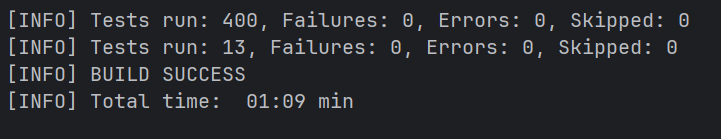
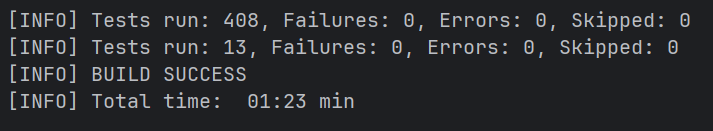
test: complete volunteer CRUD integration tests and update report

diff --git a/src/test/java/com/example/foodrescue/volunteer/VolunteerCrudIntegrationTest.java b/src/test/java/com/example/foodrescue/volunteer/VolunteerCrudIntegrationTest.java
@@ -14,8 +14,11 @@ import java.util.Map;
 import java.util.UUID;
 
 import static org.assertj.core.api.Assertions.assertThat;
+import static org.hamcrest.Matchers.hasItem;
+import static org.springframework.test.web.servlet.request.MockMvcRequestBuilders.delete;
 import static org.springframework.test.web.servlet.request.MockMvcRequestBuilders.get;
 import static org.springframework.test.web.servlet.request.MockMvcRequestBuilders.post;
+import static org.springframework.test.web.servlet.request.MockMvcRequestBuilders.put;
 import static org.springframework.test.web.servlet.result.MockMvcResultMatchers.content;
 import static org.springframework.test.web.servlet.result.MockMvcResultMatchers.jsonPath;
 import static org.springframework.test.web.servlet.result.MockMvcResultMatchers.status;
@@ -44,12 +47,7 @@ class VolunteerCrudIntegrationTest {
 
         assertThat(location).startsWith(VOLUNTEERS + "/");
         UUID id = UUID.fromString(location.substring(location.lastIndexOf('/') + 1));
-        Map<String, Object> row = jdbc.sql("""
-                        select full_name, email, phone, transport_type, activity_zone,
-                               completed_deliveries, late_pickups, no_shows
-                        from volunteers where id = ?
-                        """)
-                .param(id).query().singleRow();
+        Map<String, Object> row = volunteerRow(id);
         assertThat(row).containsEntry("full_name", "Олена Коваль")
                 .containsEntry("email", email)
                 .containsEntry("phone", "+380671112233")
@@ -144,6 +142,150 @@ class VolunteerCrudIntegrationTest {
                 .andExpect(status().isNotFound())
                 .andExpect(content().contentTypeCompatibleWith(MediaType.APPLICATION_PROBLEM_JSON))
                 .andExpect(jsonPath("$.status").value(404));
+    }
+
+    @Test
+    void getAll_WithExistingVolunteer_ShouldIncludeResponseDto() throws Exception {
+        UUID id = UUID.randomUUID();
+        VolunteerTestFixtures.insertVolunteer(jdbc, id);
+
+        mockMvc.perform(get(VOLUNTEERS))
+                .andExpect(status().isOk())
+                .andExpect(jsonPath("$[?(@.id == '%s')].fullName".formatted(id))
+                        .value(hasItem("Тестовий волонтер")));
+    }
+
+    @Test
+    void update_ValidRequest_ShouldReturnOkAndUpdateDatabaseRow() throws Exception {
+        UUID id = UUID.randomUUID();
+        VolunteerTestFixtures.insertVolunteer(jdbc, id);
+        String updatedEmail = uniqueEmail();
+
+        mockMvc.perform(put(VOLUNTEERS + "/" + id).contentType(MediaType.APPLICATION_JSON)
+                        .characterEncoding(StandardCharsets.UTF_8)
+                        .content(volunteerJson("Марія Шевченко", updatedEmail, "+380679998877")))
+                .andExpect(status().isOk())
+                .andExpect(jsonPath("$.id").value(id.toString()))
+                .andExpect(jsonPath("$.fullName").value("Марія Шевченко"))
+                .andExpect(jsonPath("$.email").value(updatedEmail))
+                .andExpect(jsonPath("$.phone").value("+380679998877"))
+                .andExpect(jsonPath("$.transportType").value("BIKE"))
+                .andExpect(jsonPath("$.activityZone").value("Київ, Поділ"));
+
+        assertThat(volunteerRow(id))
+                .containsEntry("full_name", "Марія Шевченко")
+                .containsEntry("email", updatedEmail)
+                .containsEntry("phone", "+380679998877")
+                .containsEntry("transport_type", "BIKE")
+                .containsEntry("activity_zone", "Київ, Поділ")
+                .containsEntry("completed_deliveries", 0)
+                .containsEntry("late_pickups", 0)
+                .containsEntry("no_shows", 0);
+    }
+
+    @Test
+    void update_InvalidFields_ShouldReturnBadRequestAndKeepDatabaseRow() throws Exception {
+        UUID id = UUID.randomUUID();
+        VolunteerTestFixtures.insertVolunteer(jdbc, id);
+        Map<String, Object> original = volunteerRow(id);
+
+        mockMvc.perform(put(VOLUNTEERS + "/" + id).contentType(MediaType.APPLICATION_JSON)
+                        .characterEncoding(StandardCharsets.UTF_8)
+                        .content(volunteerJson("І", "not-an-email", "123")))
+                .andExpect(status().isBadRequest())
+                .andExpect(content().contentTypeCompatibleWith(MediaType.APPLICATION_PROBLEM_JSON))
+                .andExpect(jsonPath("$.status").value(400))
+                .andExpect(jsonPath("$.errors.fullName").exists())
+                .andExpect(jsonPath("$.errors.email").exists())
+                .andExpect(jsonPath("$.errors.phone").exists());
+
+        assertThat(volunteerRow(id)).isEqualTo(original);
+    }
+
+    @Test
+    void update_DuplicateEmail_ShouldReturnConflictAndKeepDatabaseRow() throws Exception {
+        UUID id = UUID.randomUUID();
+        UUID otherId = UUID.randomUUID();
+        VolunteerTestFixtures.insertVolunteer(jdbc, id);
+        VolunteerTestFixtures.insertVolunteer(jdbc, otherId);
+        Map<String, Object> original = volunteerRow(id);
+        String otherEmail = (String) volunteerRow(otherId).get("email");
+
+        mockMvc.perform(put(VOLUNTEERS + "/" + id).contentType(MediaType.APPLICATION_JSON)
+                        .characterEncoding(StandardCharsets.UTF_8)
+                        .content(volunteerJson("Марія Шевченко", otherEmail, "+380679998877")))
+                .andExpect(status().isConflict())
+                .andExpect(content().contentTypeCompatibleWith(MediaType.APPLICATION_PROBLEM_JSON))
+                .andExpect(jsonPath("$.status").value(409));
+
+        assertThat(volunteerRow(id)).isEqualTo(original);
+        assertThat(jdbc.sql("select count(*) from volunteers where email = ?")
+                .param(otherEmail).query(Long.class).single()).isEqualTo(1L);
+    }
+
+    @Test
+    void update_UnknownVolunteer_ShouldReturnNotFoundAndKeepTable() throws Exception {
+        long before = countVolunteers();
+
+        mockMvc.perform(put(VOLUNTEERS + "/" + UUID.randomUUID())
+                        .contentType(MediaType.APPLICATION_JSON)
+                        .characterEncoding(StandardCharsets.UTF_8)
+                        .content(volunteerJson("Марія Шевченко", uniqueEmail(), "+380679998877")))
+                .andExpect(status().isNotFound())
+                .andExpect(content().contentTypeCompatibleWith(MediaType.APPLICATION_PROBLEM_JSON))
+                .andExpect(jsonPath("$.status").value(404));
+
+        assertThat(countVolunteers()).isEqualTo(before);
+    }
+
+    @Test
+    void delete_ExistingVolunteer_ShouldReturnNoContentAndRemoveDatabaseRow() throws Exception {
+        UUID id = UUID.randomUUID();
+        VolunteerTestFixtures.insertVolunteer(jdbc, id);
+
+        mockMvc.perform(delete(VOLUNTEERS + "/" + id))
+                .andExpect(status().isNoContent());
+
+        assertThat(jdbc.sql("select count(*) from volunteers where id = ?")
+                .param(id).query(Long.class).single()).isZero();
+    }
+
+    @Test
+    void delete_VolunteerWithReservedLot_ShouldReturnConflictAndKeepDatabaseRows() throws Exception {
+        UUID id = UUID.randomUUID();
+        VolunteerTestFixtures.insertVolunteer(jdbc, id);
+        UUID lotId = VolunteerTestFixtures.insertLot(jdbc, VolunteerTestFixtures.uniqueTitle(), "RESERVED", id);
+
+        mockMvc.perform(delete(VOLUNTEERS + "/" + id))
+                .andExpect(status().isConflict())
+                .andExpect(content().contentTypeCompatibleWith(MediaType.APPLICATION_PROBLEM_JSON))
+                .andExpect(jsonPath("$.status").value(409));
+
+        assertThat(jdbc.sql("select count(*) from volunteers where id = ?")
+                .param(id).query(Long.class).single()).isEqualTo(1L);
+        assertThat(jdbc.sql("select status from food_lots where id = ?")
+                .param(lotId).query(String.class).single()).isEqualTo("RESERVED");
+    }
+
+    @Test
+    void delete_UnknownVolunteer_ShouldReturnNotFoundAndKeepTable() throws Exception {
+        long before = countVolunteers();
+
+        mockMvc.perform(delete(VOLUNTEERS + "/" + UUID.randomUUID()))
+                .andExpect(status().isNotFound())
+                .andExpect(content().contentTypeCompatibleWith(MediaType.APPLICATION_PROBLEM_JSON))
+                .andExpect(jsonPath("$.status").value(404));
+
+        assertThat(countVolunteers()).isEqualTo(before);
+    }
+
+    private Map<String, Object> volunteerRow(UUID id) {
+        return jdbc.sql("""
+                        select full_name, email, phone, transport_type, activity_zone,
+                               completed_deliveries, late_pickups, no_shows
+                        from volunteers where id = ?
+                        """)
+                .param(id).query().singleRow();
     }
 
     private long countVolunteers() {
